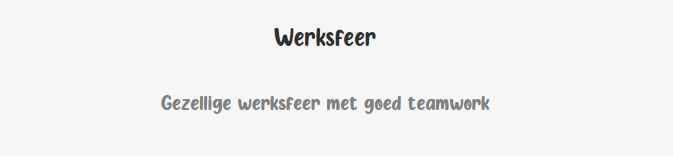
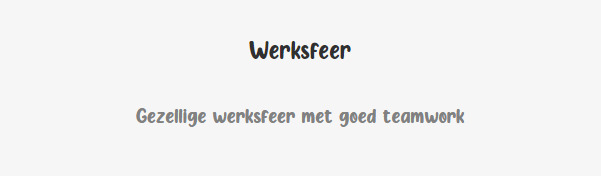
carousel gefixed

Changed region(s): [[0.2097, 0.6154, 0.7787, 0.7436], [0.3894, 0.1795, 0.599, 0.359]]

diff --git a/Website/project-periode-2-iosda-4-master/Simpele-rekenmachine/index.html b/Website/project-periode-2-iosda-4-master/Simpele-rekenmachine/index.html
@@ -144,22 +144,22 @@
               </ol>
             <div class="carousel-inner" role="listbox">
               <div class="carousel-item active">
-                <img class="d-block w-100 img-fluid" src="#" data-src="../Simpele-rekenmachine/afbeeldingen/ssGithub.png" alt="GitHub">
+                <img class="d-block w-100 img-fluid" src="../Simpele-rekenmachine/afbeeldingen/ssGithub.png" alt="GitHub">
               </div>
               <div class="carousel-item">
-                <img class="d-block w-100 img-fluid" src="#" data-src="../Simpele-rekenmachine/afbeeldingen/ssWerksfeer.png" alt="Werksfeer">
+                <img class="d-block w-100 img-fluid" src="../Simpele-rekenmachine/afbeeldingen/ssWerksfeer.png" alt="Werksfeer">
               </div>
               <div class="carousel-item">
-                <img class="d-block w-100 img-fluid" src="#" data-src="../Simpele-rekenmachine/afbeeldingen/ssScrum.png" alt="Scrum">
+                <img class="d-block w-100 img-fluid" src="../Simpele-rekenmachine/afbeeldingen/ssScrum.png" alt="Scrum">
               </div>
               <div class="carousel-item">
-                <img class="d-block w-100 img-fluid" src="#" data-src="../Simpele-rekenmachine/afbeeldingen/ssCommunicatie.png" alt="Communicatie">
+                <img class="d-block w-100 img-fluid" src="../Simpele-rekenmachine/afbeeldingen/ssCommunicatie.png" alt="Communicatie">
               </div>
               <div class="carousel-item">
-                <img class="d-block w-100 img-fluid" src="#" data-src="../Simpele-rekenmachine/afbeeldingen/ssKwaliteit.png" alt="Kwaliteit">
+                <img class="d-block w-100 img-fluid" src="../Simpele-rekenmachine/afbeeldingen/ssKwaliteit.png" alt="Kwaliteit">
               </div>
               <div class="carousel-item">
-                <img class="d-block w-100 img-fluid" src="#" data-src="../Simpele-rekenmachine/afbeeldingen/ssDevOps.png" alt="DevOps">
+                <img class="d-block w-100 img-fluid" src="../Simpele-rekenmachine/afbeeldingen/ssDevOps.png" alt="Devops">
               </div>
             </div>
             <a class="carousel-control-prev" href="#carouselFadeExampleIndicators" role="button" data-slide="prev">
